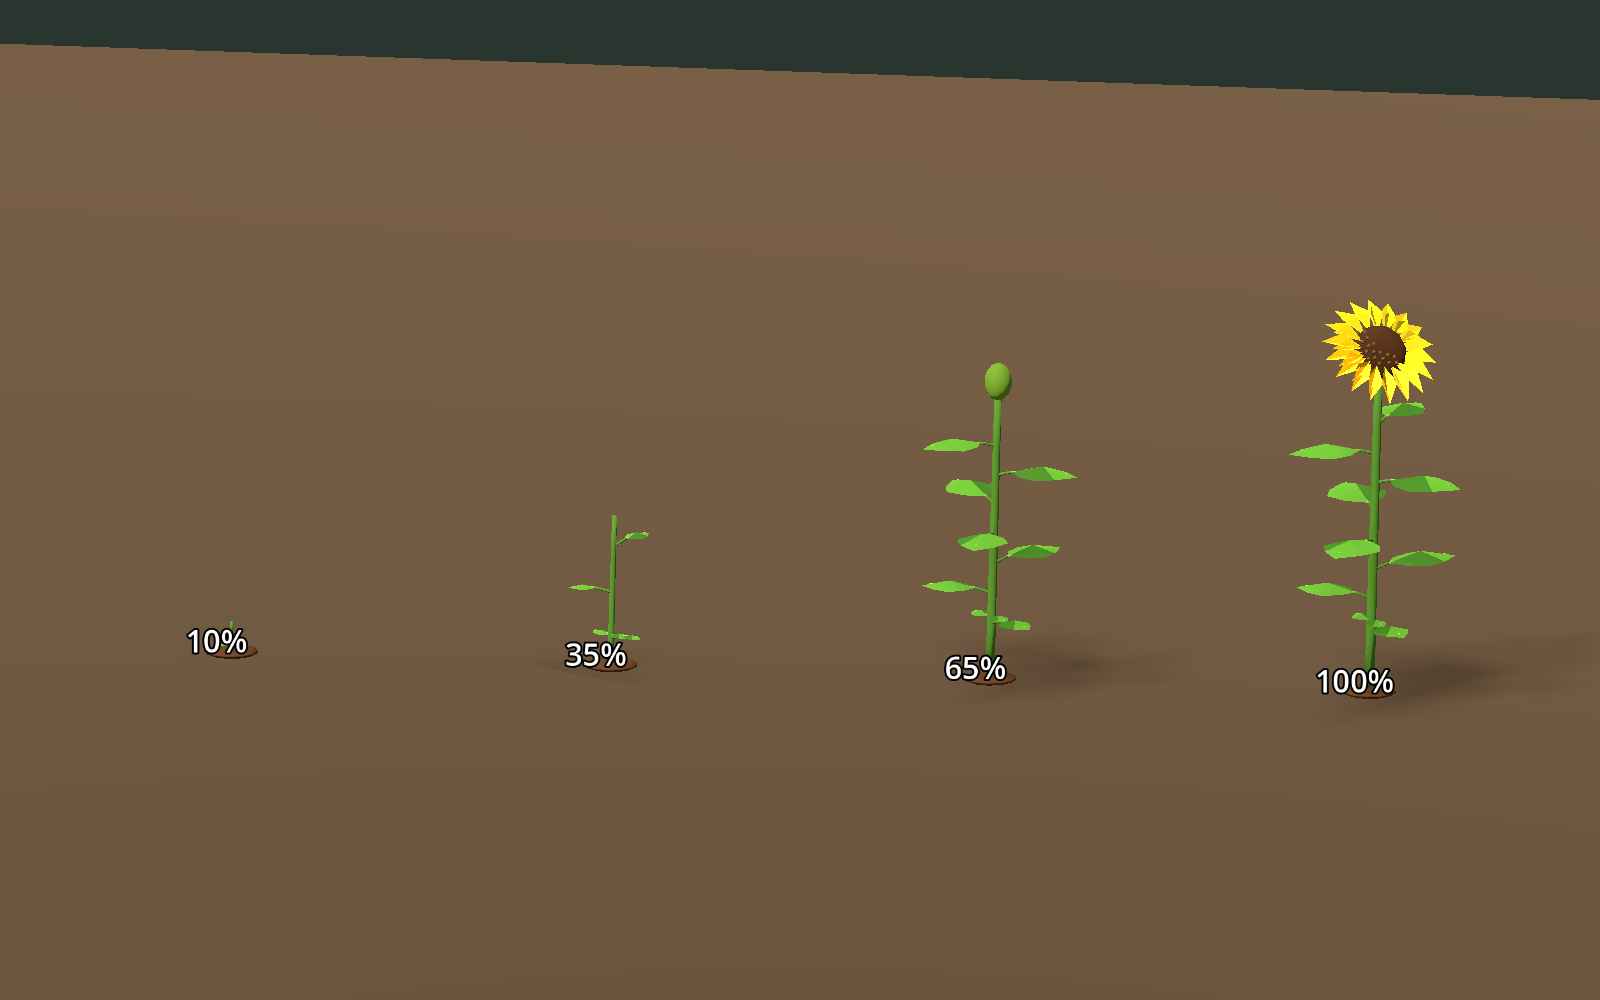
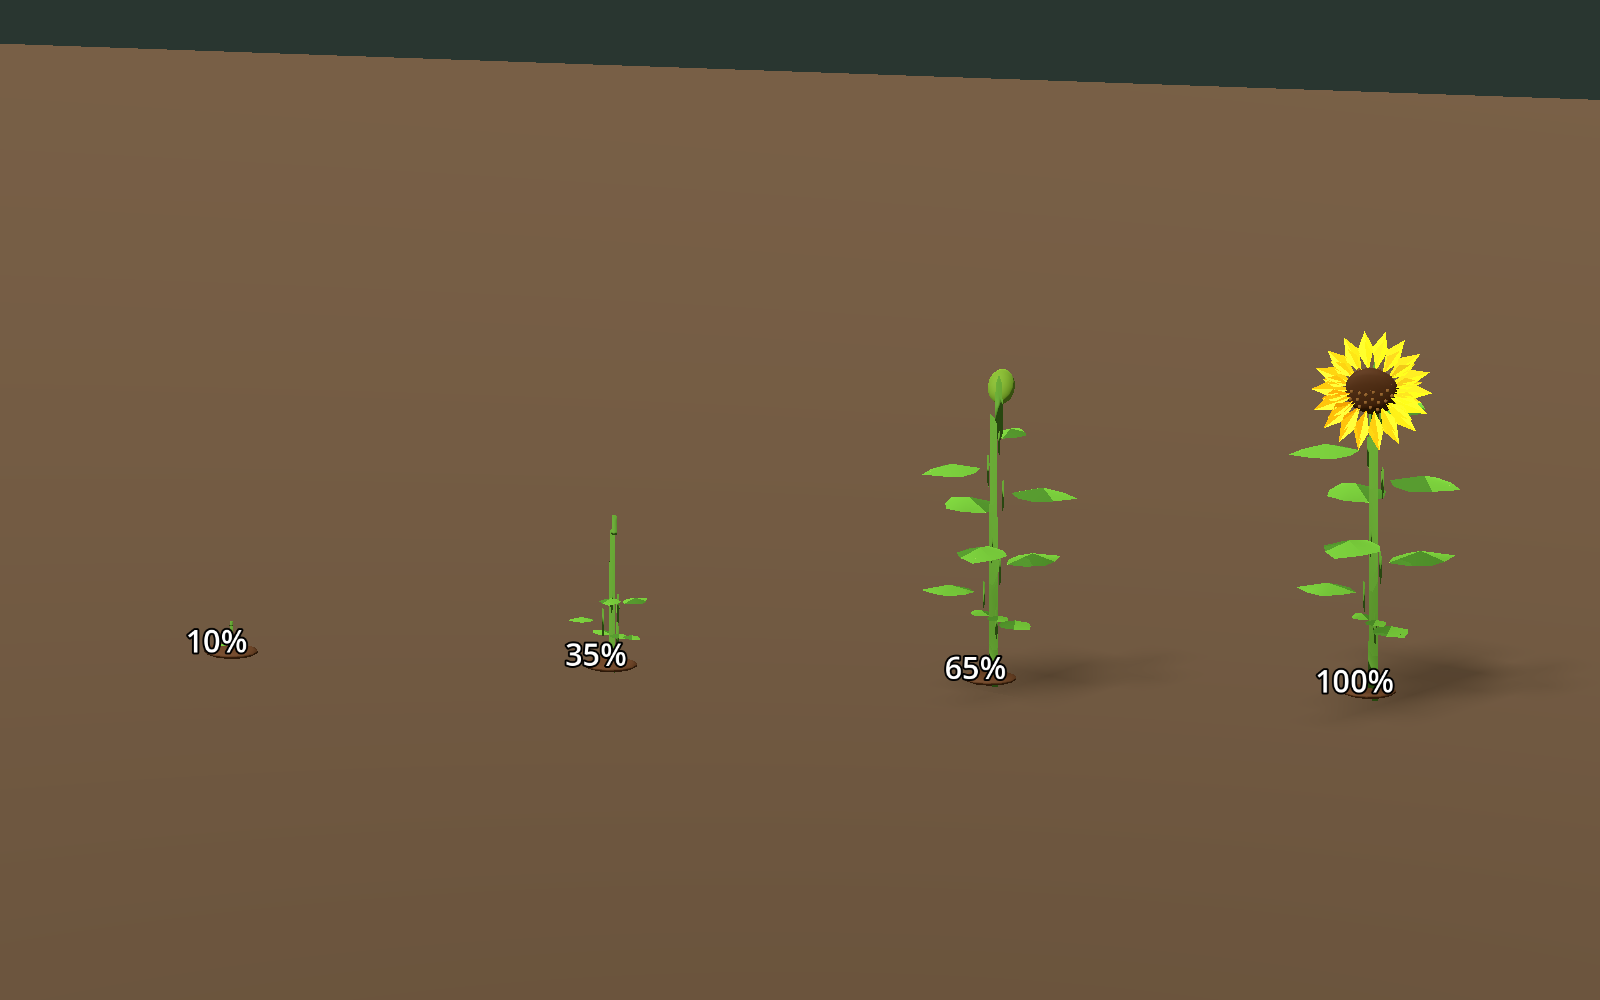
feat(crops): 添加向日葵追光并复用网格消除生长重建卡顿

diff --git a/docs/systems/crops.md b/docs/systems/crops.md
@@ -21,7 +21,9 @@
 
 ## 渲染
 
-CropVisualBuilder 生成低多边形网格，无外部贴图或模型依赖。叶片、藤蔓、花和果实按材质合并网格；远于 24 米时使用简化叶片及果实几何。CropNode 缓存生长进度及采摘状态，成熟后不重复重建网格。
+CropVisualBuilder 生成低多边形网格，无外部贴图或模型依赖。CropVisualRig 在植株间共享部件网格，以 MultiMesh 绘制茎叶。生长仅更新实例变换，采摘仅隐藏对应果实；成熟且采摘状态不变时跳过生长更新。远于 24 米切换简化网格，切换时才重建实例容器。GridManager 单独接收并按 ID 分发作物更新，避免每株订阅全体作物信号。
+
+向日葵在 55% 生长进度出现花苞后，弯曲上部茎并转动花苞：白天沿太阳方向运动，夜间渐渐返回东方；68% 开始开花至 88% 完成开花期间逐渐停止追光，之后固定朝东。不开启夜间低头。东方沿用 DayNightController 太阳轨道的日出方向，追光使用同一平滑日相。该表现是对幼株茎生长运动的简化，无逐叶光照计算、骨骼或网格重建。
 
 西瓜藤节点采样地面高度；没有有效地面碰撞时回退到根部高度。GridManager 增加根部区块缓冲，避免边界外根部对应的藤蔓突然消失。
 
@@ -45,3 +47,5 @@ godot --path . res://Scripts/tests/crop_visual_review.tscn -- capture watermelon
 ```
 
 截图写入 `Art/Crops/Review/`。本次使用 Godot 4.6 stable 完成测试、实际 OpenGL 渲染和主场景启动检查；项目目标版本仍为 4.7。现有 project.godot 引用的 godot_mcp_toolkit 未包含在仓库中，因此干净检出会报告该 Autoload 缺失，此次没有修改该配置。
+
+CPU 回归测量：5 株、现实 1 秒＝游戏 60 分钟，同一 600 帧生长更新测试，旧版本峰值向日葵约 29 ms、西瓜约 49 ms；部件复用后约 0.9 ms、2.2 ms。这是无窗口 CPU 更新耗时，不是显卡或玩家设备最终 FPS 保证。
